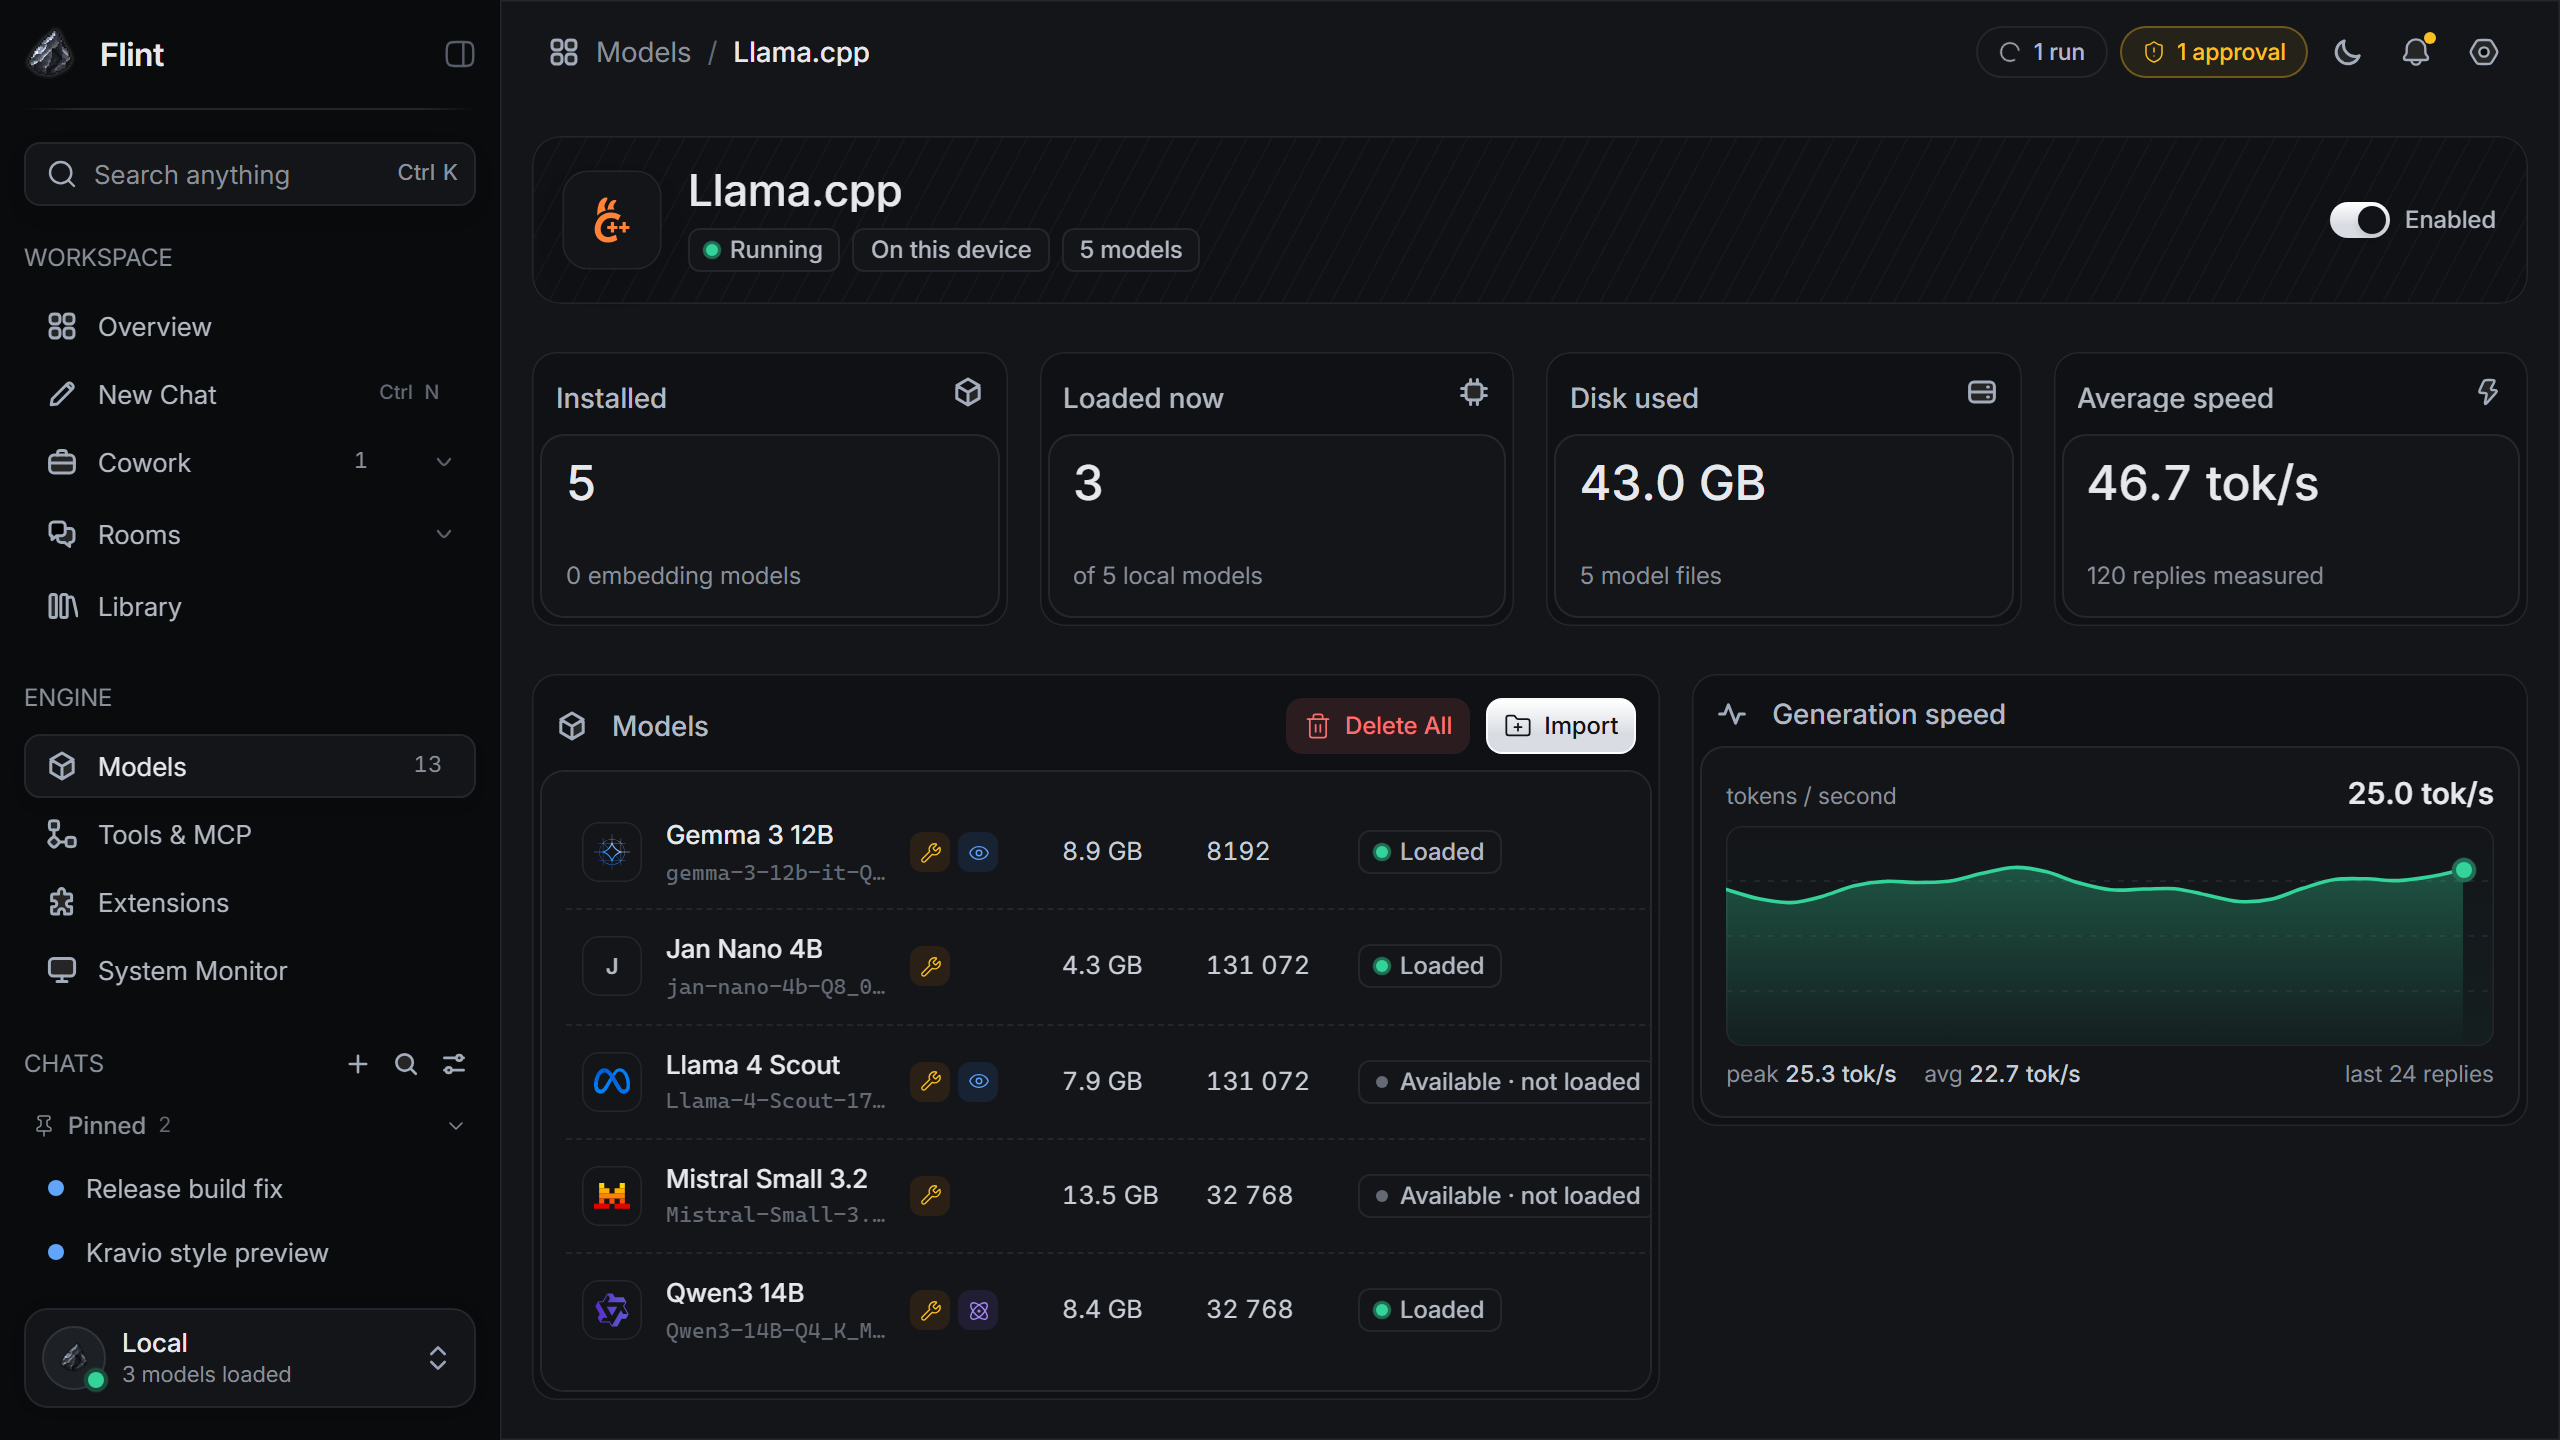
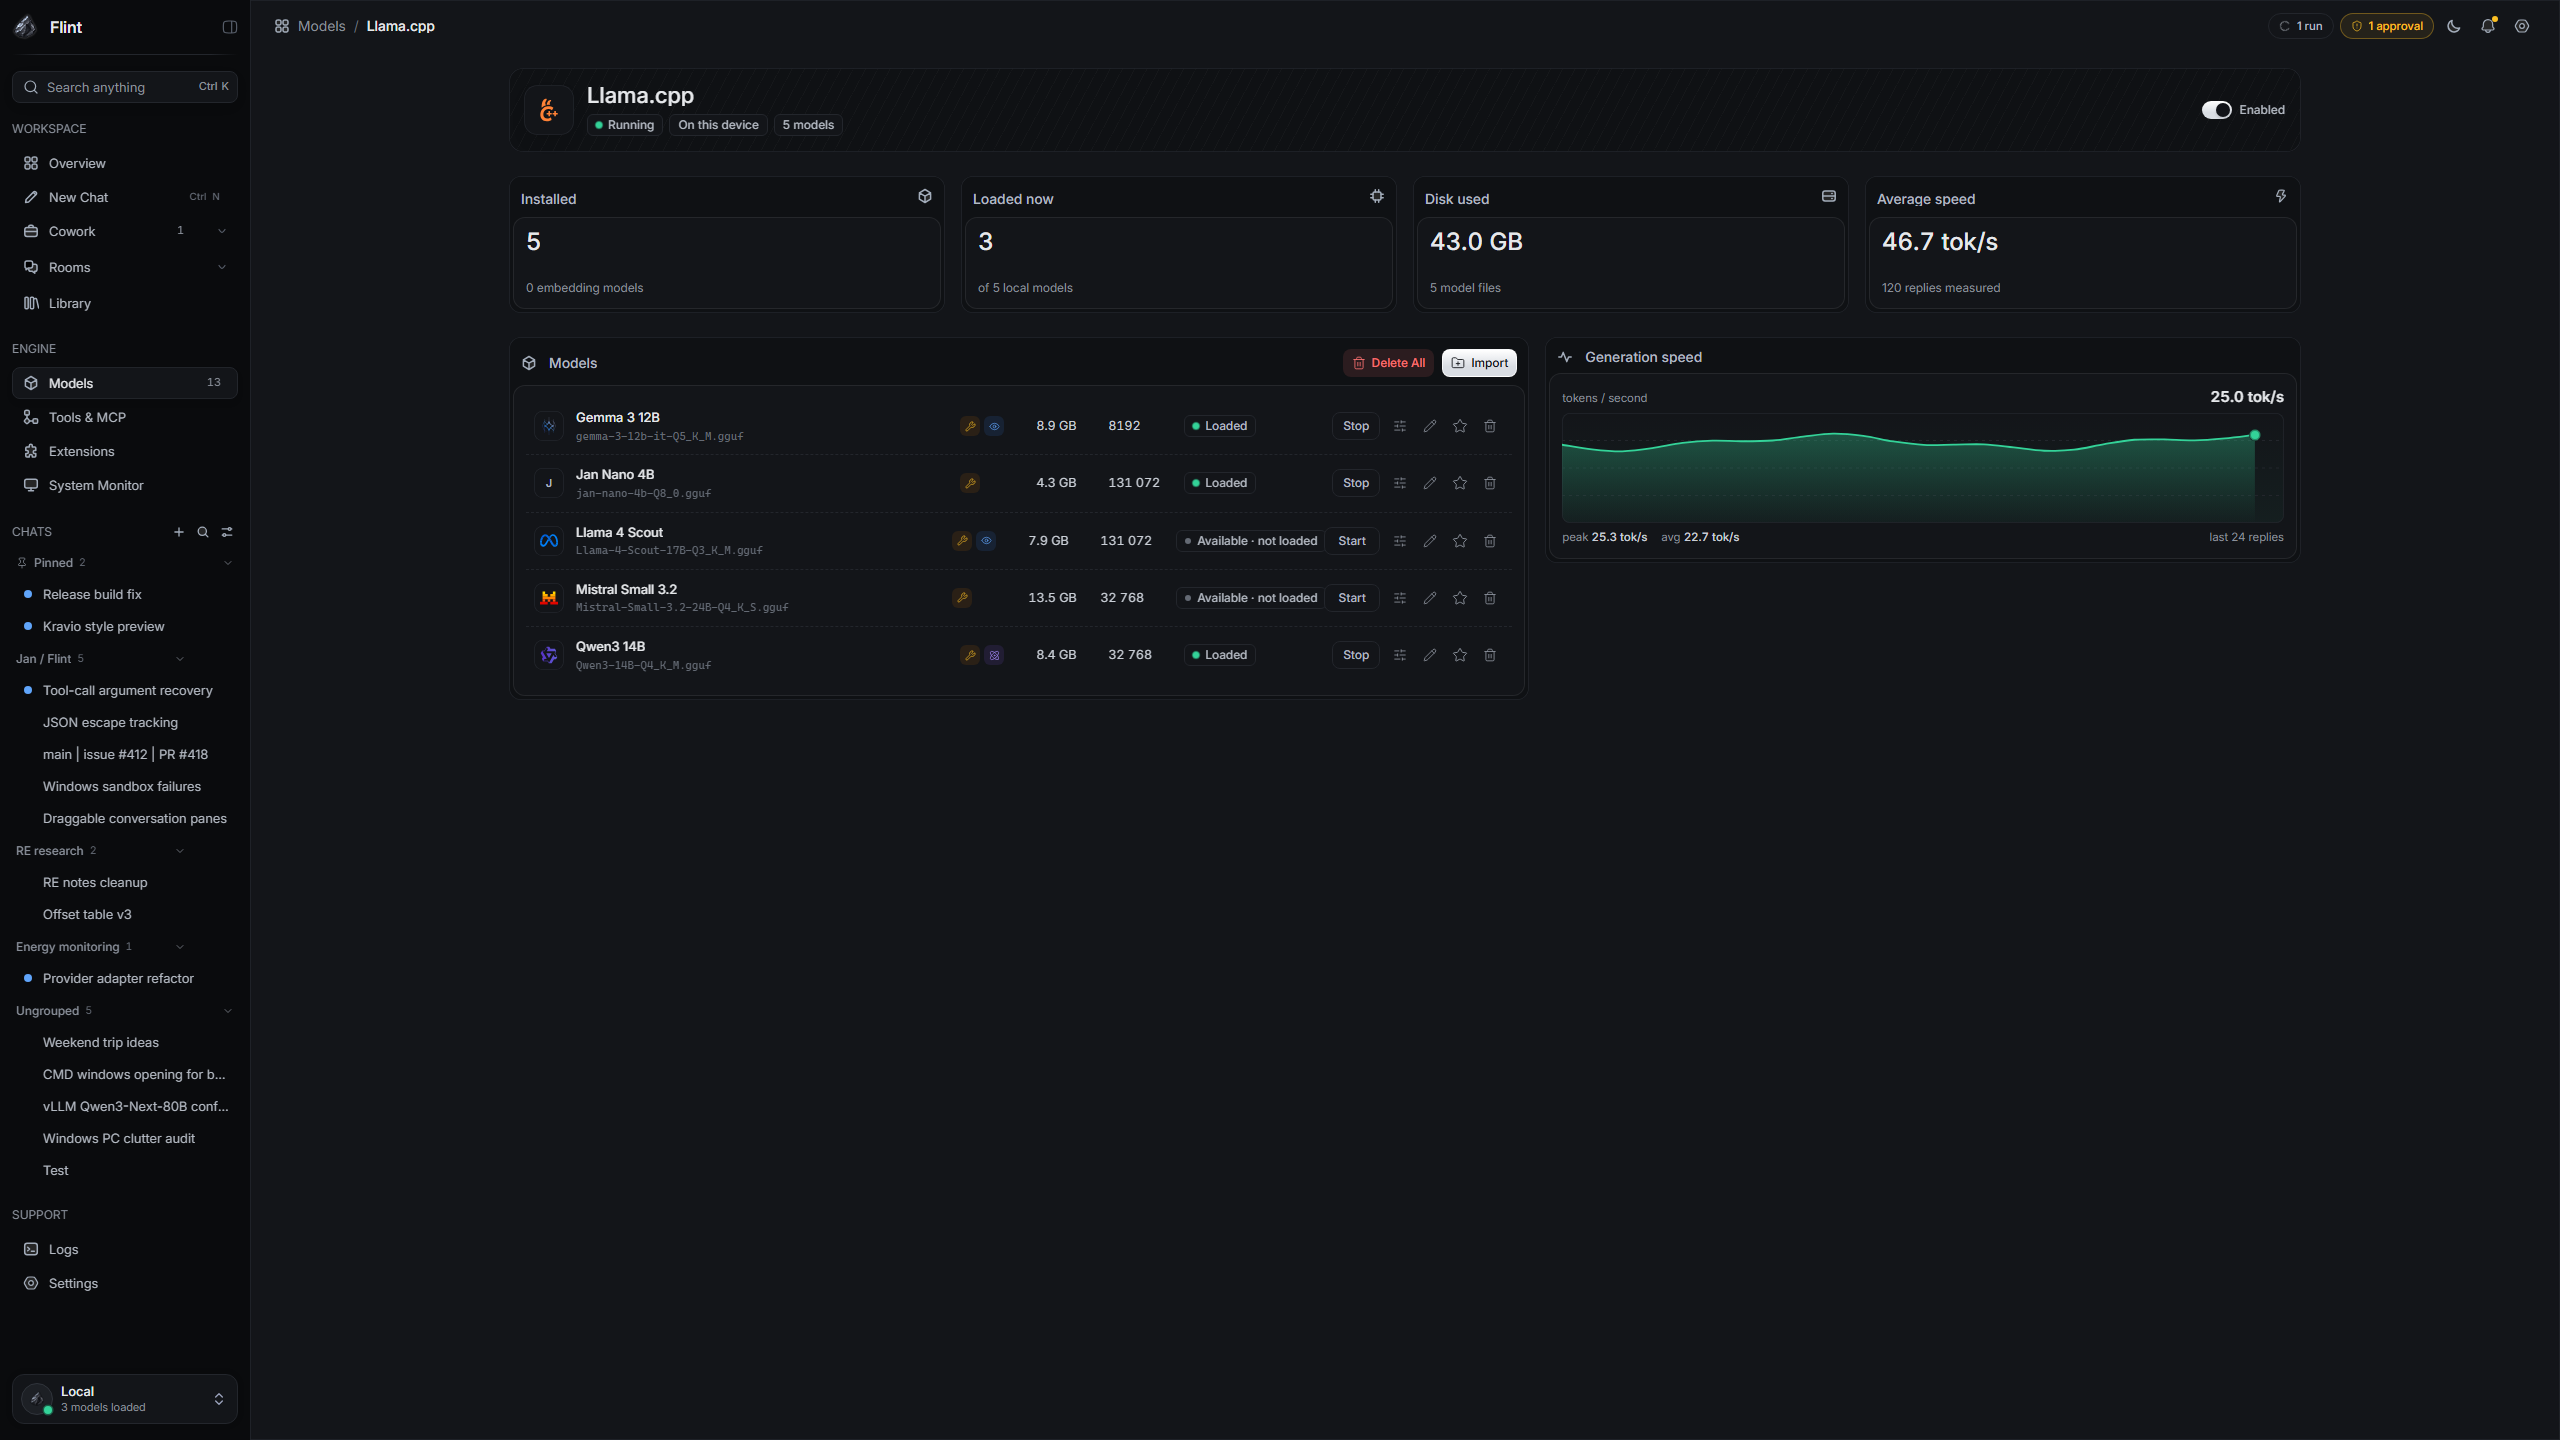
docs: beginner build guide, native 2560x1440 screenshots, engine tag fix
The README's build section now covers every platform from a fresh
machine: tools, PATH for LLVM, Yarn, the shared packages, the engine the
installer bundles, development, updating and troubleshooting.
Screenshots are captured in a real 2560x1440 window instead of a
1280x720 one at 2x.

fetch-engine-source.sh strips a carriage return from the pinned
llama.cpp tag: with Git's default autocrlf on Windows, build.rs is
checked out with CRLF and the clone asked for tag 'b10964\r'.

diff --git a/README.md b/README.md
@@ -329,7 +329,7 @@ Everything below is implemented in this fork, on top of upstream Jan. Open a sec
 
 ## Screenshots
 
-Flint's interface in dark and light themes, captured from the app at 2560x1440 with sample chats, runs and figures.
+Flint's interface in dark and light themes, captured from the app in a 2560x1440 window with sample chats, runs and figures.
 
 | | |
 |---|---|
@@ -347,13 +347,17 @@ Flint's interface in dark and light themes, captured from the app at 2560x1440 w
 
 ## Build from source
 
-### Quick start on Windows (copy-paste commands)
+These steps take you from a fresh machine to a running Flint. Do them in
+order. Every block is a command to paste into a terminal: **PowerShell** on
+Windows, **Terminal** on macOS and Linux.
 
-New to this, or new to Git? Every step is a command you can paste into
-**PowerShell**. Do the steps in order.
+The first build needs an internet connection (it downloads packages and the
+bun and uv helper binaries) and about 30 GB of free disk space. It compiles
+Rust, so expect 10–30 minutes the first time; later builds are much faster.
 
-**1. Install the tools** (once per machine). Windows 10/11 ships `winget`;
-these commands fetch everything Flint needs:
+### 1. Install the tools (once per machine)
+
+**Windows 10/11** — `winget` is built in:
 
 ```powershell
 winget install -e --id Git.Git
@@ -363,88 +367,161 @@ winget install -e --id Microsoft.VisualStudio.2022.BuildTools --override "--quie
 winget install -e --id LLVM.LLVM
 winget install -e --id Kitware.CMake
 winget install -e --id Ninja-build.Ninja
+winget install -e --id ezwinports.make
 ```
 
-Then make Rust use the MSVC toolchain (needed to link on Windows):
+The LLVM installer does not add itself to `PATH`; this adds it for your
+user account:
+
+```powershell
+$p = [Environment]::GetEnvironmentVariable("Path", "User"); [Environment]::SetEnvironmentVariable("Path", "$p;C:\Program Files\LLVMin", "User")
+```
+
+Close and reopen PowerShell, then make Rust use the MSVC toolchain:
 
 ```powershell
 rustup default stable-msvc
 ```
 
-**Close and reopen PowerShell** so the newly installed tools are on your
-`PATH`.
+**macOS** — install the Xcode command-line tools and [Homebrew](https://brew.sh), then:
 
-**2. Get the code and enable Yarn:**
+```bash
+xcode-select --install
+brew install git node rustup cmake ninja
+rustup default stable
+```
 
-```powershell
+On Apple silicon, also run `xcodebuild -downloadComponent MetalToolchain`.
+
+**Linux (Debian/Ubuntu)**:
+
+```bash
+sudo apt update
+sudo apt install -y git curl build-essential cmake ninja-build file libssl-dev libwebkit2gtk-4.1-dev libxdo-dev libayatana-appindicator3-dev librsvg2-dev
+curl -fsSL https://deb.nodesource.com/setup_20.x | sudo -E bash -
+sudo apt install -y nodejs
+curl --proto '=https' --tlsv1.2 -sSf https://sh.rustup.rs | sh -s -- -y
+```
+
+Close and reopen the terminal after installing, so the new tools are on
+your `PATH`. Check that everything is there:
+
+```bash
+git --version
+node --version
+cargo --version
+make --version
+```
+
+On Windows, also check `clang --version`.
+
+Node.js must be version 20 or newer.
+
+### 2. Get the code and turn on Yarn
+
+```bash
 git clone https://github.com/Jozkah/jan.git
 cd jan
 corepack enable
 ```
 
-If `corepack enable` fails with a permissions error, run PowerShell as
-Administrator for that one command.
+`corepack enable` switches on the Yarn version the project pins (4.10.3). If
+it fails with a permissions error, run that one command in an Administrator
+PowerShell (Windows) or prefix it with `sudo` (macOS/Linux).
 
-**3. Install dependencies and build the app:**
-
-The build downloads sidecar binaries (bun, uv) from GitHub, so an
-internet connection is required for the first build.
-
-```powershell
-yarn install
-yarn build
-```
-
-The first build compiles Rust and can take 10–30 minutes. When it finishes,
-your installers are in `src-tauri\target\release\bundle\` (an `.exe` under
-`nsis\` and an `.msi` under `msi\`), and the app itself is at
-`src-tauri\target\release\Flint.exe`.
-
-To run Flint in development instead of building an installer, use `yarn dev`.
-
-### Prerequisites
-
-- Node.js 20 or newer and Yarn 4.10.3 (`corepack enable`)
-- Rust (stable) for Tauri
-- Make (macOS/Linux only; Windows builds work without Make)
-- Windows: Visual Studio 2022 Build Tools (MSVC x64 and Windows SDK), LLVM (`clang-cl`), Ninja and CMake
-- macOS on Apple silicon: the Metal toolchain (`xcodebuild -downloadComponent MetalToolchain`)
-- CUDA Toolkit only for CUDA engine builds
-
-### Run in development
-
-```bash
-git clone <this repository>
-cd jan
-make dev
-```
-
-`make dev` installs dependencies, builds the core packages and the engine, and launches the app.
-
-### Other targets
-
-- `make build` — production build
-- `make test` — tests and linting
-- `make build-cli` — the `jan` command-line agent
-- `make clean` — remove build output
-
-Or with Yarn directly:
+### 3. Install dependencies and build the shared packages
 
 ```bash
 yarn install
-yarn build
+yarn build:tauri:plugin:api
+yarn build:core
+```
+
+### 4a. Run Flint in development
+
+```bash
+yarn download:bin
 yarn dev
 ```
 
-### Engine variants
+The app window opens once the Rust side has compiled. Edits to the
+interface reload live. Stop it with `Ctrl+C` in the terminal.
 
-Choose the llama.cpp engine build with `JAN_ENGINE_VARIANT` (tokens `cpu`, `vulkan`, `metal`, `cuda12`, `cuda13`, `hip`/`rocm`, joined with `-`):
+### 4b. Or build the installable app
+
+The installer bundles Flint's llama.cpp engine, so build that first. On
+Windows, run this one in **Git Bash** (installed with Git; search the Start
+menu for it), not PowerShell, whose `bash` is WSL:
 
 ```bash
-make dev JAN_ENGINE_VARIANT=cuda13
+make build-engine JAN_ENGINE_VARIANT=cpu
 ```
 
-On Windows, if an engine build fails with an nvcc "Could not open output file" error, the build path is too long: the build script relocates it automatically, or set `JAN_ENGINE_BUILD_DIR` to a short path such as `C:\jb`.
+`cpu` works on every machine. For GPU speed pick another variant (see
+[Local models](#local-models-the-llamacpp-engine) below). Then, back in any
+terminal in the `jan` folder:
+
+```bash
+yarn build
+```
+
+When it finishes, the installers are in `src-tauri/target/release/bundle/`:
+
+- Windows: an `.exe` under `nsis\` and an `.msi` under `msi\` (the app itself is `src-tauri\target\release\Flint.exe`)
+- macOS: a `.dmg` under `dmg/` and the `.app` under `macos/`
+- Linux: `.deb` and `.AppImage` files under `deb/` and `appimage/`
+
+### Updating to the latest code
+
+```bash
+git pull
+yarn install
+yarn build:tauri:plugin:api
+yarn build:core
+```
+
+Then run `yarn dev` or `yarn build` again.
+
+### Useful commands
+
+| Command | What it does |
+|---|---|
+| `yarn dev` | Run the desktop app in development |
+| `yarn build` | Build the installable desktop app |
+| `yarn build:web` | Build only the web interface (fast check) |
+| `yarn workspace @janhq/web-app typecheck` | Type-check the interface |
+| `yarn lint` | Lint the interface |
+| `yarn test:web` | Run the interface tests |
+| `yarn build:cli` | Build the `flint` command-line agent into `src-tauri/resources/bin/` |
+
+On macOS and Linux the Makefile wraps the same steps: `make dev`, `make build`,
+`make test`, `make build-cli` and `make clean`.
+
+### Local models (the llama.cpp engine)
+
+`yarn dev` runs without the engine; cloud providers and OpenAI-compatible
+servers work either way. To run models on your own machine in development,
+build the engine once (in Git Bash on Windows):
+
+```bash
+make build-engine-dev JAN_ENGINE_VARIANT=cpu
+```
+
+Pick the variant for your hardware with `JAN_ENGINE_VARIANT` (tokens `cpu`,
+`vulkan`, `metal`, `cuda12`, `cuda13`, `hip`/`rocm`, joined with `-`).
+`make dev` builds the engine automatically when the toolchain is complete.
+CUDA variants need the CUDA Toolkit.
+
+### Troubleshooting
+
+- **`cross-env: command not found` or `tauri: command not found`** — run `yarn install` first, from the repository root.
+- **Type errors about `@janhq/tauri-plugin-…-api` or `@janhq/core`** — the shared packages are stale; run `yarn build:tauri:plugin:api` and `yarn build:core` again.
+- **"Sidecar verification failed … empty (0 bytes)"** — placeholder binaries are in the way. Delete everything in `src-tauri/resources/bin/` and run `yarn download:bin`, then build again.
+- **"the engine build needs clang on PATH"** — LLVM is installed but not on `PATH`; run the `PATH` command from step 1 and reopen the terminal.
+- **Windows: `wsl: Failed to translate` during `make`** — you ran `make` from PowerShell; run it from Git Bash.
+- **Windows: `link.exe` not found or linker errors** — the Visual Studio Build Tools are missing or Rust is on the GNU toolchain; rerun the Build Tools install above and `rustup default stable-msvc`.
+- **Windows: nvcc "Could not open output file"** while building a CUDA engine — the build path is too long; set `JAN_ENGINE_BUILD_DIR` to a short path such as `C:\jb`.
+- **Running out of disk space** — the Rust build folder `src-tauri/target` can reach 25–30 GB; delete it to reclaim space (the next build is slower).
 
 ## Documentation in this repository
 
